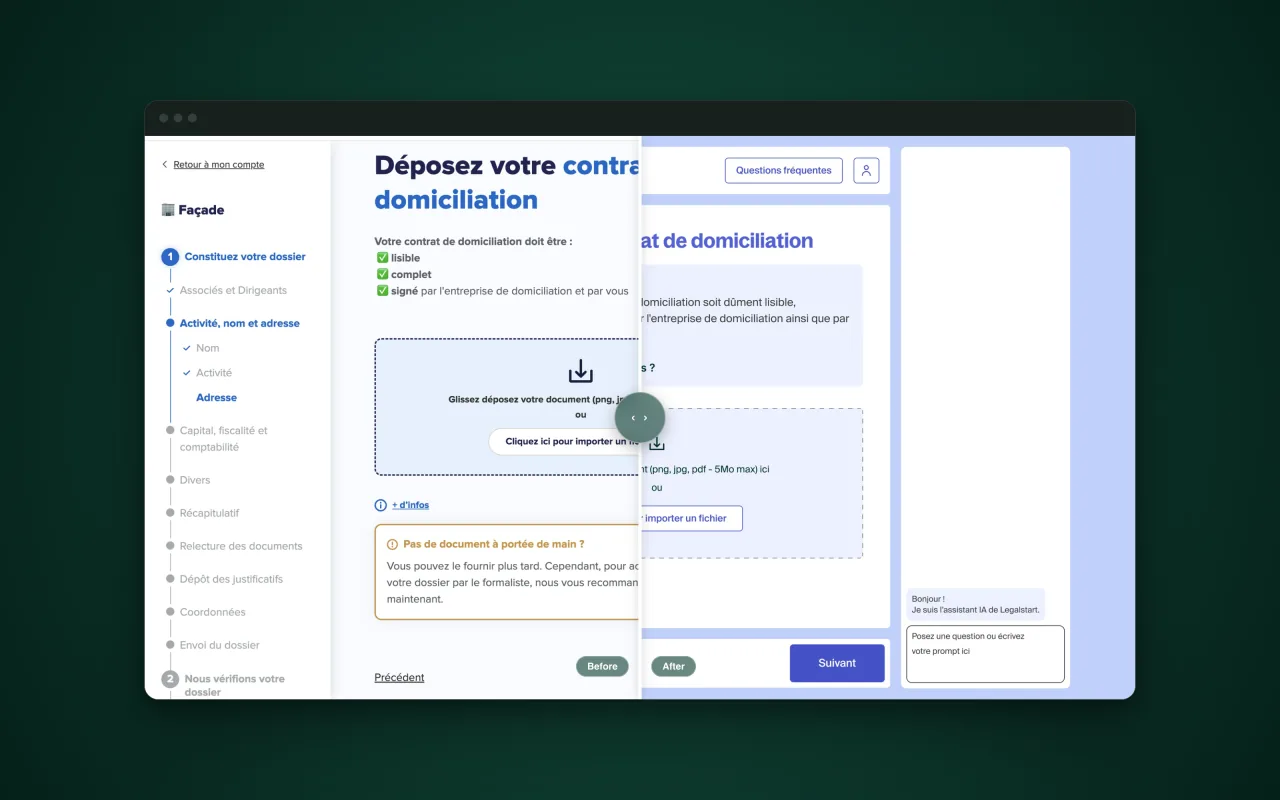
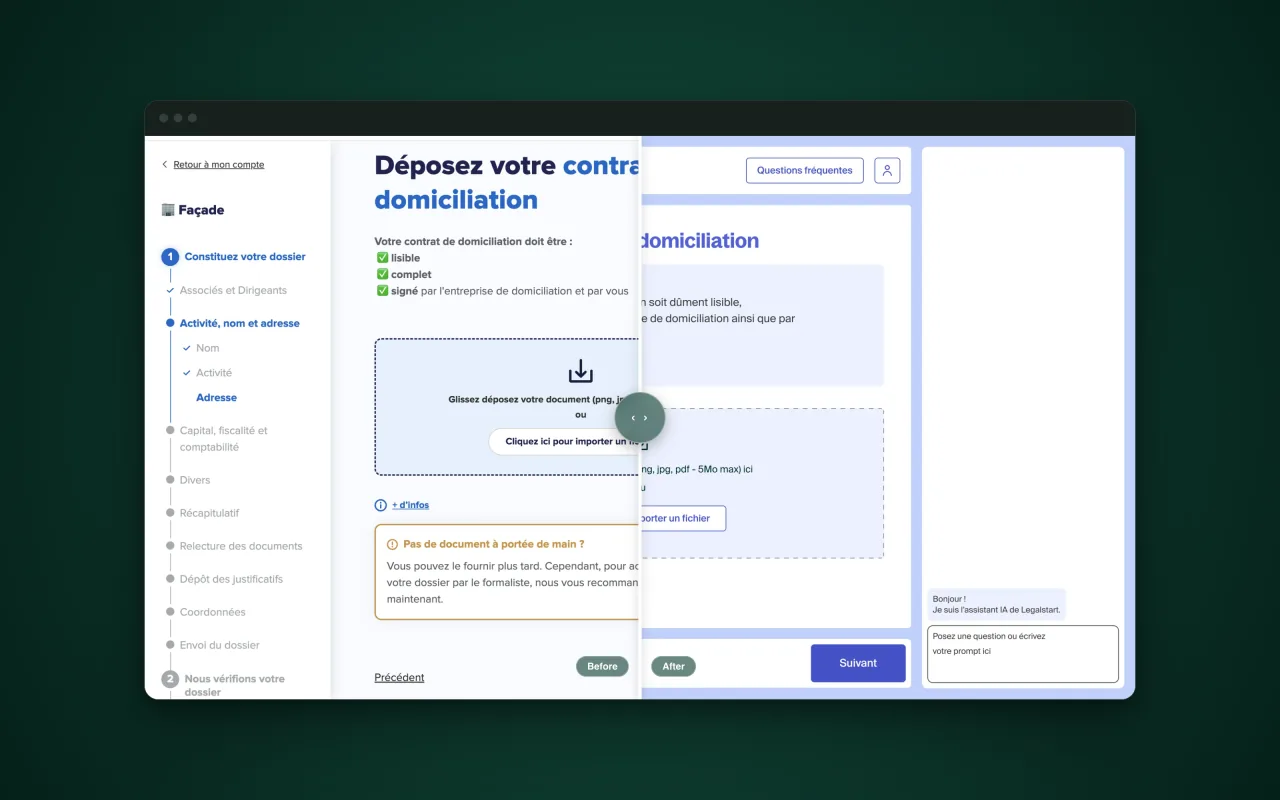
Legalstart after image fills the slider; homepage strip shows business outcomes
- After image: content area (header, main card, action bar) and the
  assistant panel widened so the screen fills the slider with no side
  margins; the timeline is untouched
- Homepage Legalstart card and no-script fallback re-rendered from the slider
- Homepage strip: +2% conversion, −5% churn, +10% design team velocity,
  50+ templates produced with AI-assisted workflows

diff --git a/index.html b/index.html
@@ -143,19 +143,19 @@
         <div class="stats-strip-inner stagger-parent">
           <div class="stat-item stagger-child">
             <div class="stat-num">+2%</div>
-            <div class="stat-label" data-fr="de conversion sur 15 funnels co-brandés">conversion lift across 15 co-branded funnels</div>
+            <div class="stat-label" data-fr="de conversion moyenne sur 15 funnels">average conversion lift across 15 funnels</div>
           </div>
           <div class="stat-item stagger-child">
-            <div class="stat-num">30</div>
-            <div class="stat-label" data-fr="frames livrées pour la V1 d'un client, seul PM et designer">frames shipped for a client V1, as sole PM and designer</div>
+            <div class="stat-num">−5%</div>
+            <div class="stat-label" data-fr="de churn sur les parcours optimisés">churn on the optimised conversion paths</div>
           </div>
           <div class="stat-item stagger-child">
-            <div class="stat-num">100+</div>
-            <div class="stat-label" data-fr="écrans refondus en production, pour 2K utilisateurs par mois">screens rebranded live, for 2K monthly users</div>
+            <div class="stat-num">+10%</div>
+            <div class="stat-label" data-fr="de vélocité pour l'équipe design de Legalstart">design team velocity at Legalstart</div>
           </div>
           <div class="stat-item stagger-child">
-            <div class="stat-num">7</div>
-            <div class="stat-label" data-fr="éditions avec des experts, publiées sous Brief to Ship">expert editions published as Brief to Ship</div>
+            <div class="stat-num">50+</div>
+            <div class="stat-label" data-fr="templates produits avec des workflows assistés par IA">templates produced with AI-assisted workflows</div>
           </div>
         </div>
       </div>
@@ -293,12 +293,12 @@
         </div>
         <div class="case-visual">
           <picture class="theme-night">
-            <source srcset="/assets/images/legalstart-rebrand-night-1280.webp?v=2 1280w, /assets/images/legalstart-rebrand-night.webp?v=2 3200w" sizes="(max-width: 860px) 100vw, 560px" type="image/webp">
-            <img class="case-visual-img case-visual-img--cover" src="/assets/images/legalstart-rebrand-night.png?v=2" alt="Legalstart service flow before and after the rebrand" width="1600" height="1000" loading="lazy" decoding="async">
+            <source srcset="/assets/images/legalstart-rebrand-night-1280.webp?v=3 1280w, /assets/images/legalstart-rebrand-night.webp?v=3 3200w" sizes="(max-width: 860px) 100vw, 560px" type="image/webp">
+            <img class="case-visual-img case-visual-img--cover" src="/assets/images/legalstart-rebrand-night.png?v=3" alt="Legalstart service flow before and after the rebrand" width="1600" height="1000" loading="lazy" decoding="async">
           </picture>
           <picture class="theme-day">
-            <source srcset="/assets/images/legalstart-rebrand-day-1280.webp?v=2 1280w, /assets/images/legalstart-rebrand-day.webp?v=2 3200w" sizes="(max-width: 860px) 100vw, 560px" type="image/webp">
-            <img class="case-visual-img case-visual-img--cover" src="/assets/images/legalstart-rebrand-day.png?v=2" alt="Legalstart service flow before and after the rebrand" width="1600" height="1000" loading="lazy" decoding="async">
+            <source srcset="/assets/images/legalstart-rebrand-day-1280.webp?v=3 1280w, /assets/images/legalstart-rebrand-day.webp?v=3 3200w" sizes="(max-width: 860px) 100vw, 560px" type="image/webp">
+            <img class="case-visual-img case-visual-img--cover" src="/assets/images/legalstart-rebrand-day.png?v=3" alt="Legalstart service flow before and after the rebrand" width="1600" height="1000" loading="lazy" decoding="async">
           </picture>
           <div class="case-mock">
             <div class="mock-sidebar">

diff --git a/work/legalstart/index.html b/work/legalstart/index.html
@@ -82,8 +82,8 @@
         <div class="ba-bar" aria-hidden="true"><span></span><span></span><span></span></div>
         <div class="ba-view">
           <picture class="ba-layer">
-            <source srcset="/assets/images/legalstart-rebrand-after-1280.webp?v=2 1280w, /assets/images/legalstart-rebrand-after.webp?v=2 2560w" sizes="(max-width: 900px) 92vw, 763px" type="image/webp">
-            <img src="/assets/images/legalstart-rebrand-after.png?v=2" alt="After: the redesigned step for uploading the domiciliation contract, with the new progress timeline, upload area and assistant panel" width="1280" height="728" fetchpriority="high" decoding="async">
+            <source srcset="/assets/images/legalstart-rebrand-after-1280.webp?v=3 1280w, /assets/images/legalstart-rebrand-after.webp?v=3 2560w" sizes="(max-width: 900px) 92vw, 763px" type="image/webp">
+            <img src="/assets/images/legalstart-rebrand-after.png?v=3" alt="After: the redesigned step for uploading the domiciliation contract, with the new progress timeline, upload area and assistant panel" width="1280" height="728" fetchpriority="high" decoding="async">
           </picture>
           <picture class="ba-layer ba-layer--before">
             <source srcset="/assets/images/legalstart-rebrand-before-1280.webp 1280w, /assets/images/legalstart-rebrand-before.webp 2560w" sizes="(max-width: 900px) 92vw, 763px" type="image/webp">
@@ -99,12 +99,12 @@
     <noscript>
       <div class="case-img-wrap">
         <picture class="theme-night">
-          <source srcset="/assets/images/legalstart-rebrand-night-1280.webp?v=2 1280w, /assets/images/legalstart-rebrand-night.webp?v=2 3200w" sizes="(max-width: 1100px) 100vw, 984px" type="image/webp">
-          <img class="case-img" src="/assets/images/legalstart-rebrand-night.png?v=2" alt="Legalstart service flow before and after the rebrand" width="1600" height="1000" loading="lazy" decoding="async">
+          <source srcset="/assets/images/legalstart-rebrand-night-1280.webp?v=3 1280w, /assets/images/legalstart-rebrand-night.webp?v=3 3200w" sizes="(max-width: 1100px) 100vw, 984px" type="image/webp">
+          <img class="case-img" src="/assets/images/legalstart-rebrand-night.png?v=3" alt="Legalstart service flow before and after the rebrand" width="1600" height="1000" loading="lazy" decoding="async">
         </picture>
         <picture class="theme-day">
-          <source srcset="/assets/images/legalstart-rebrand-day-1280.webp?v=2 1280w, /assets/images/legalstart-rebrand-day.webp?v=2 3200w" sizes="(max-width: 1100px) 100vw, 984px" type="image/webp">
-          <img class="case-img" src="/assets/images/legalstart-rebrand-day.png?v=2" alt="Legalstart service flow before and after the rebrand" width="1600" height="1000" loading="lazy" decoding="async">
+          <source srcset="/assets/images/legalstart-rebrand-day-1280.webp?v=3 1280w, /assets/images/legalstart-rebrand-day.webp?v=3 3200w" sizes="(max-width: 1100px) 100vw, 984px" type="image/webp">
+          <img class="case-img" src="/assets/images/legalstart-rebrand-day.png?v=3" alt="Legalstart service flow before and after the rebrand" width="1600" height="1000" loading="lazy" decoding="async">
         </picture>
       </div>
     </noscript>
